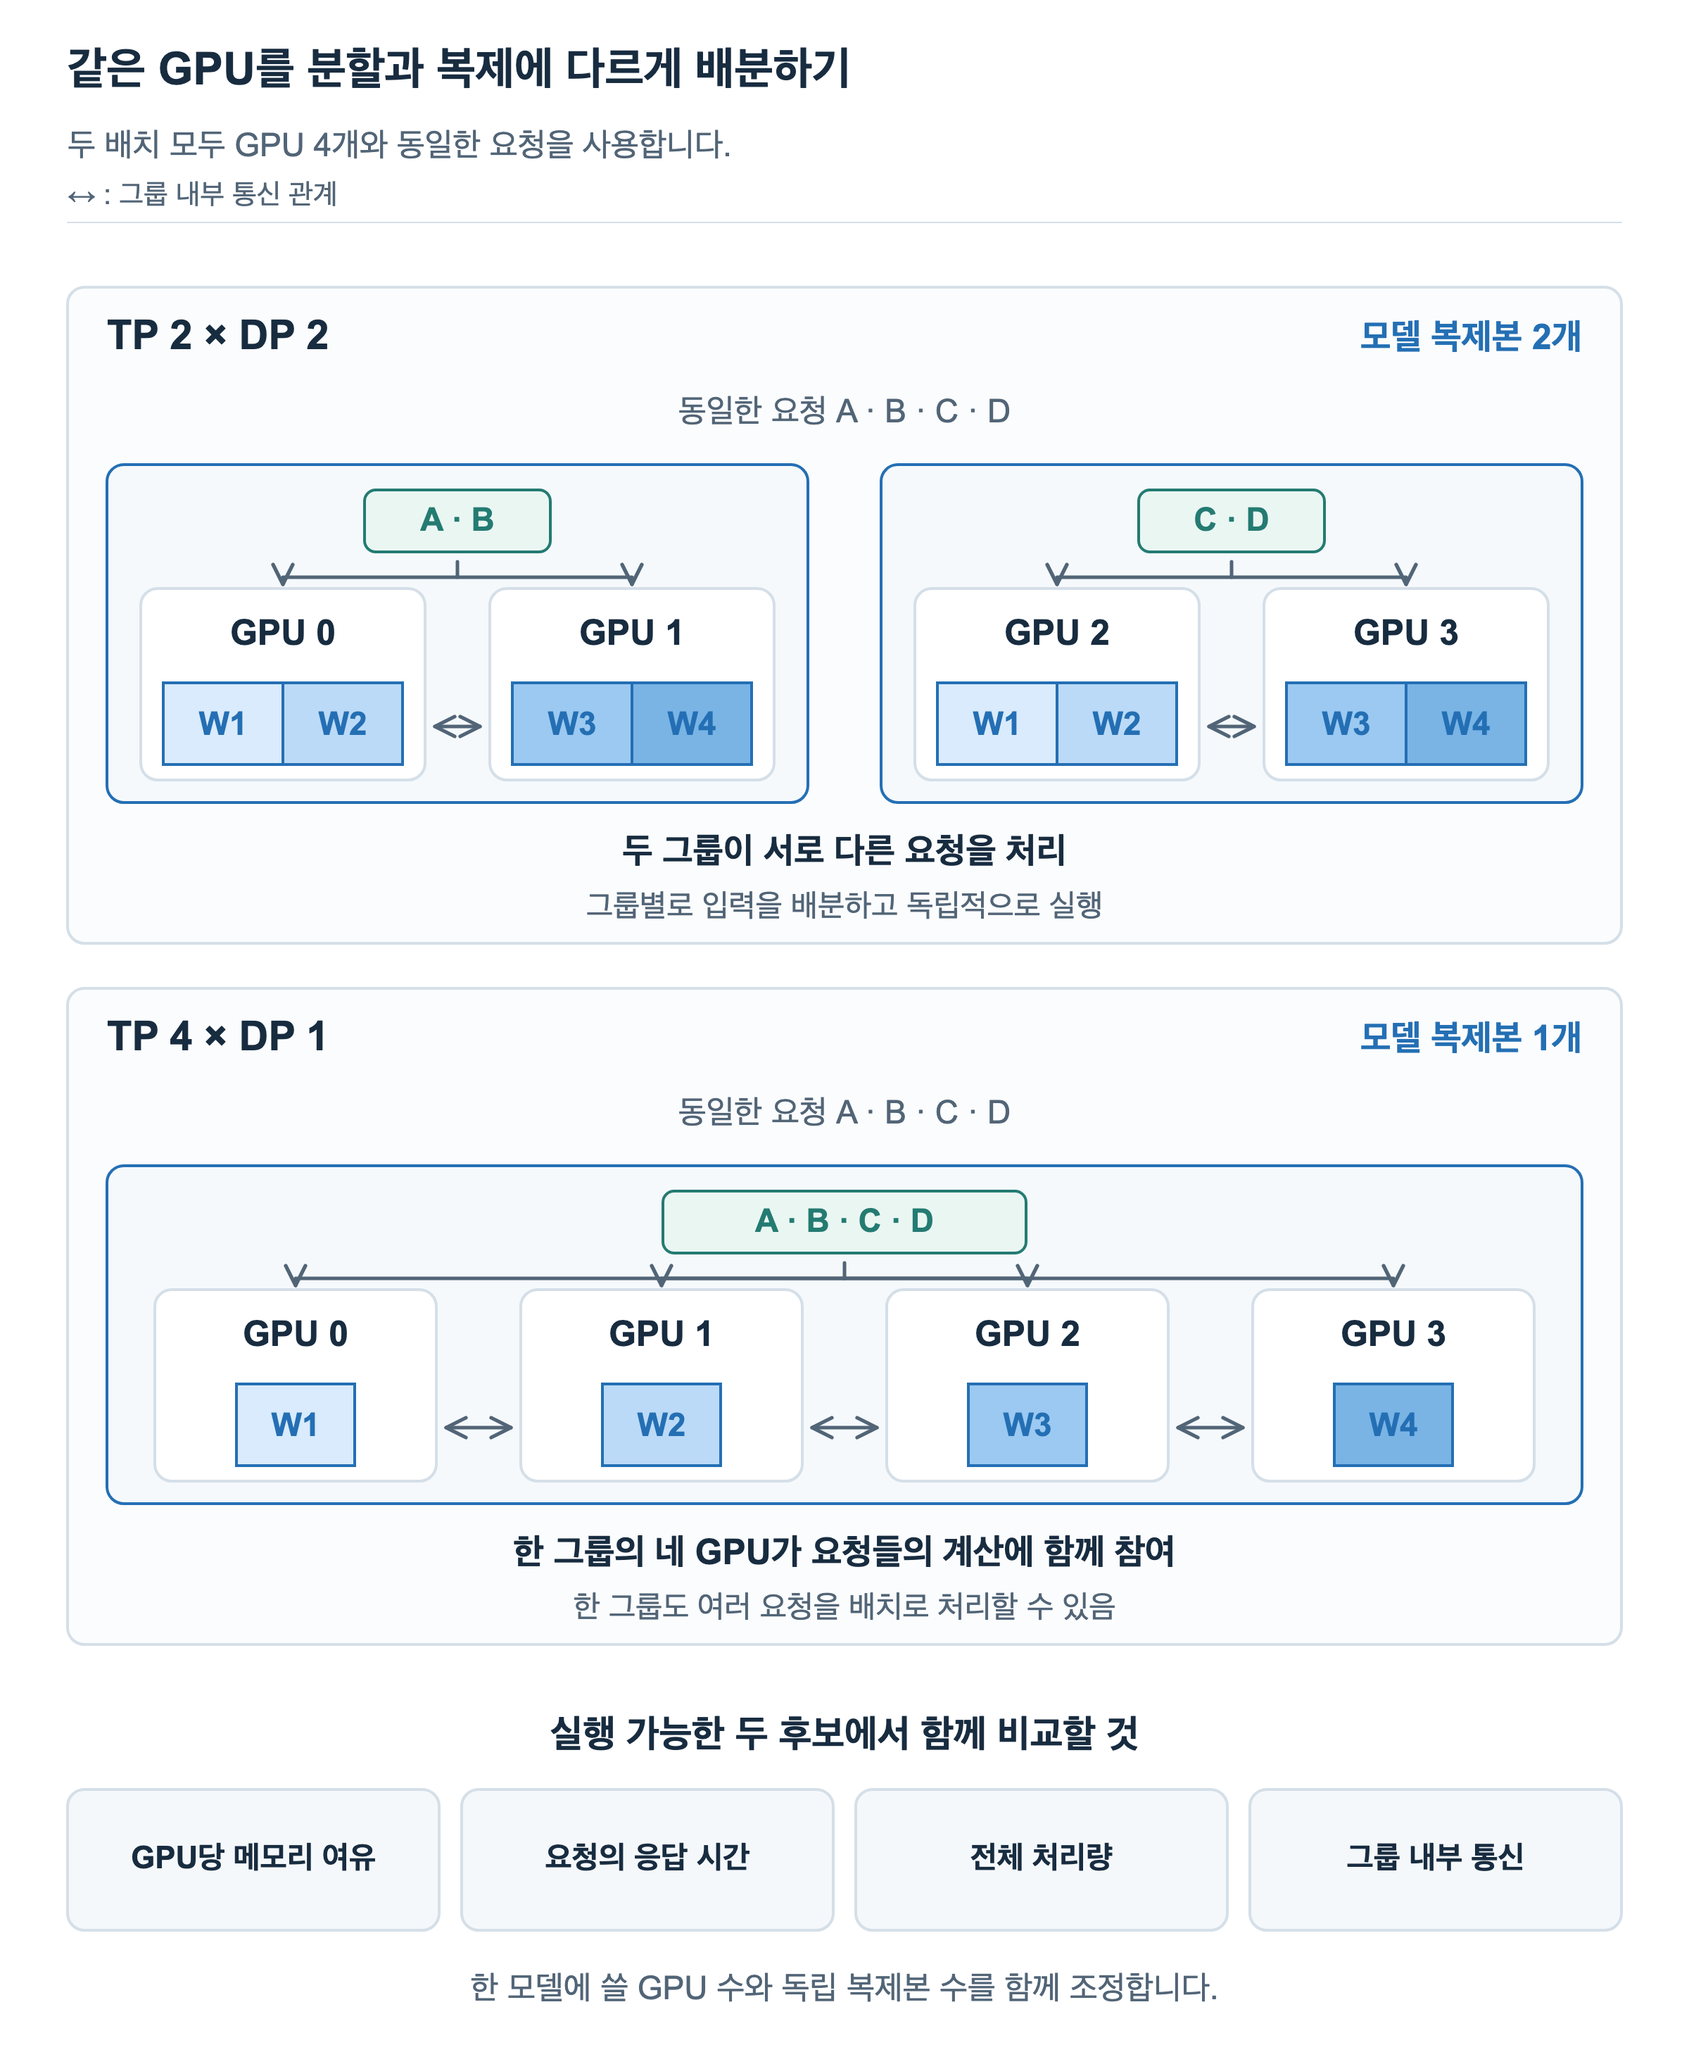
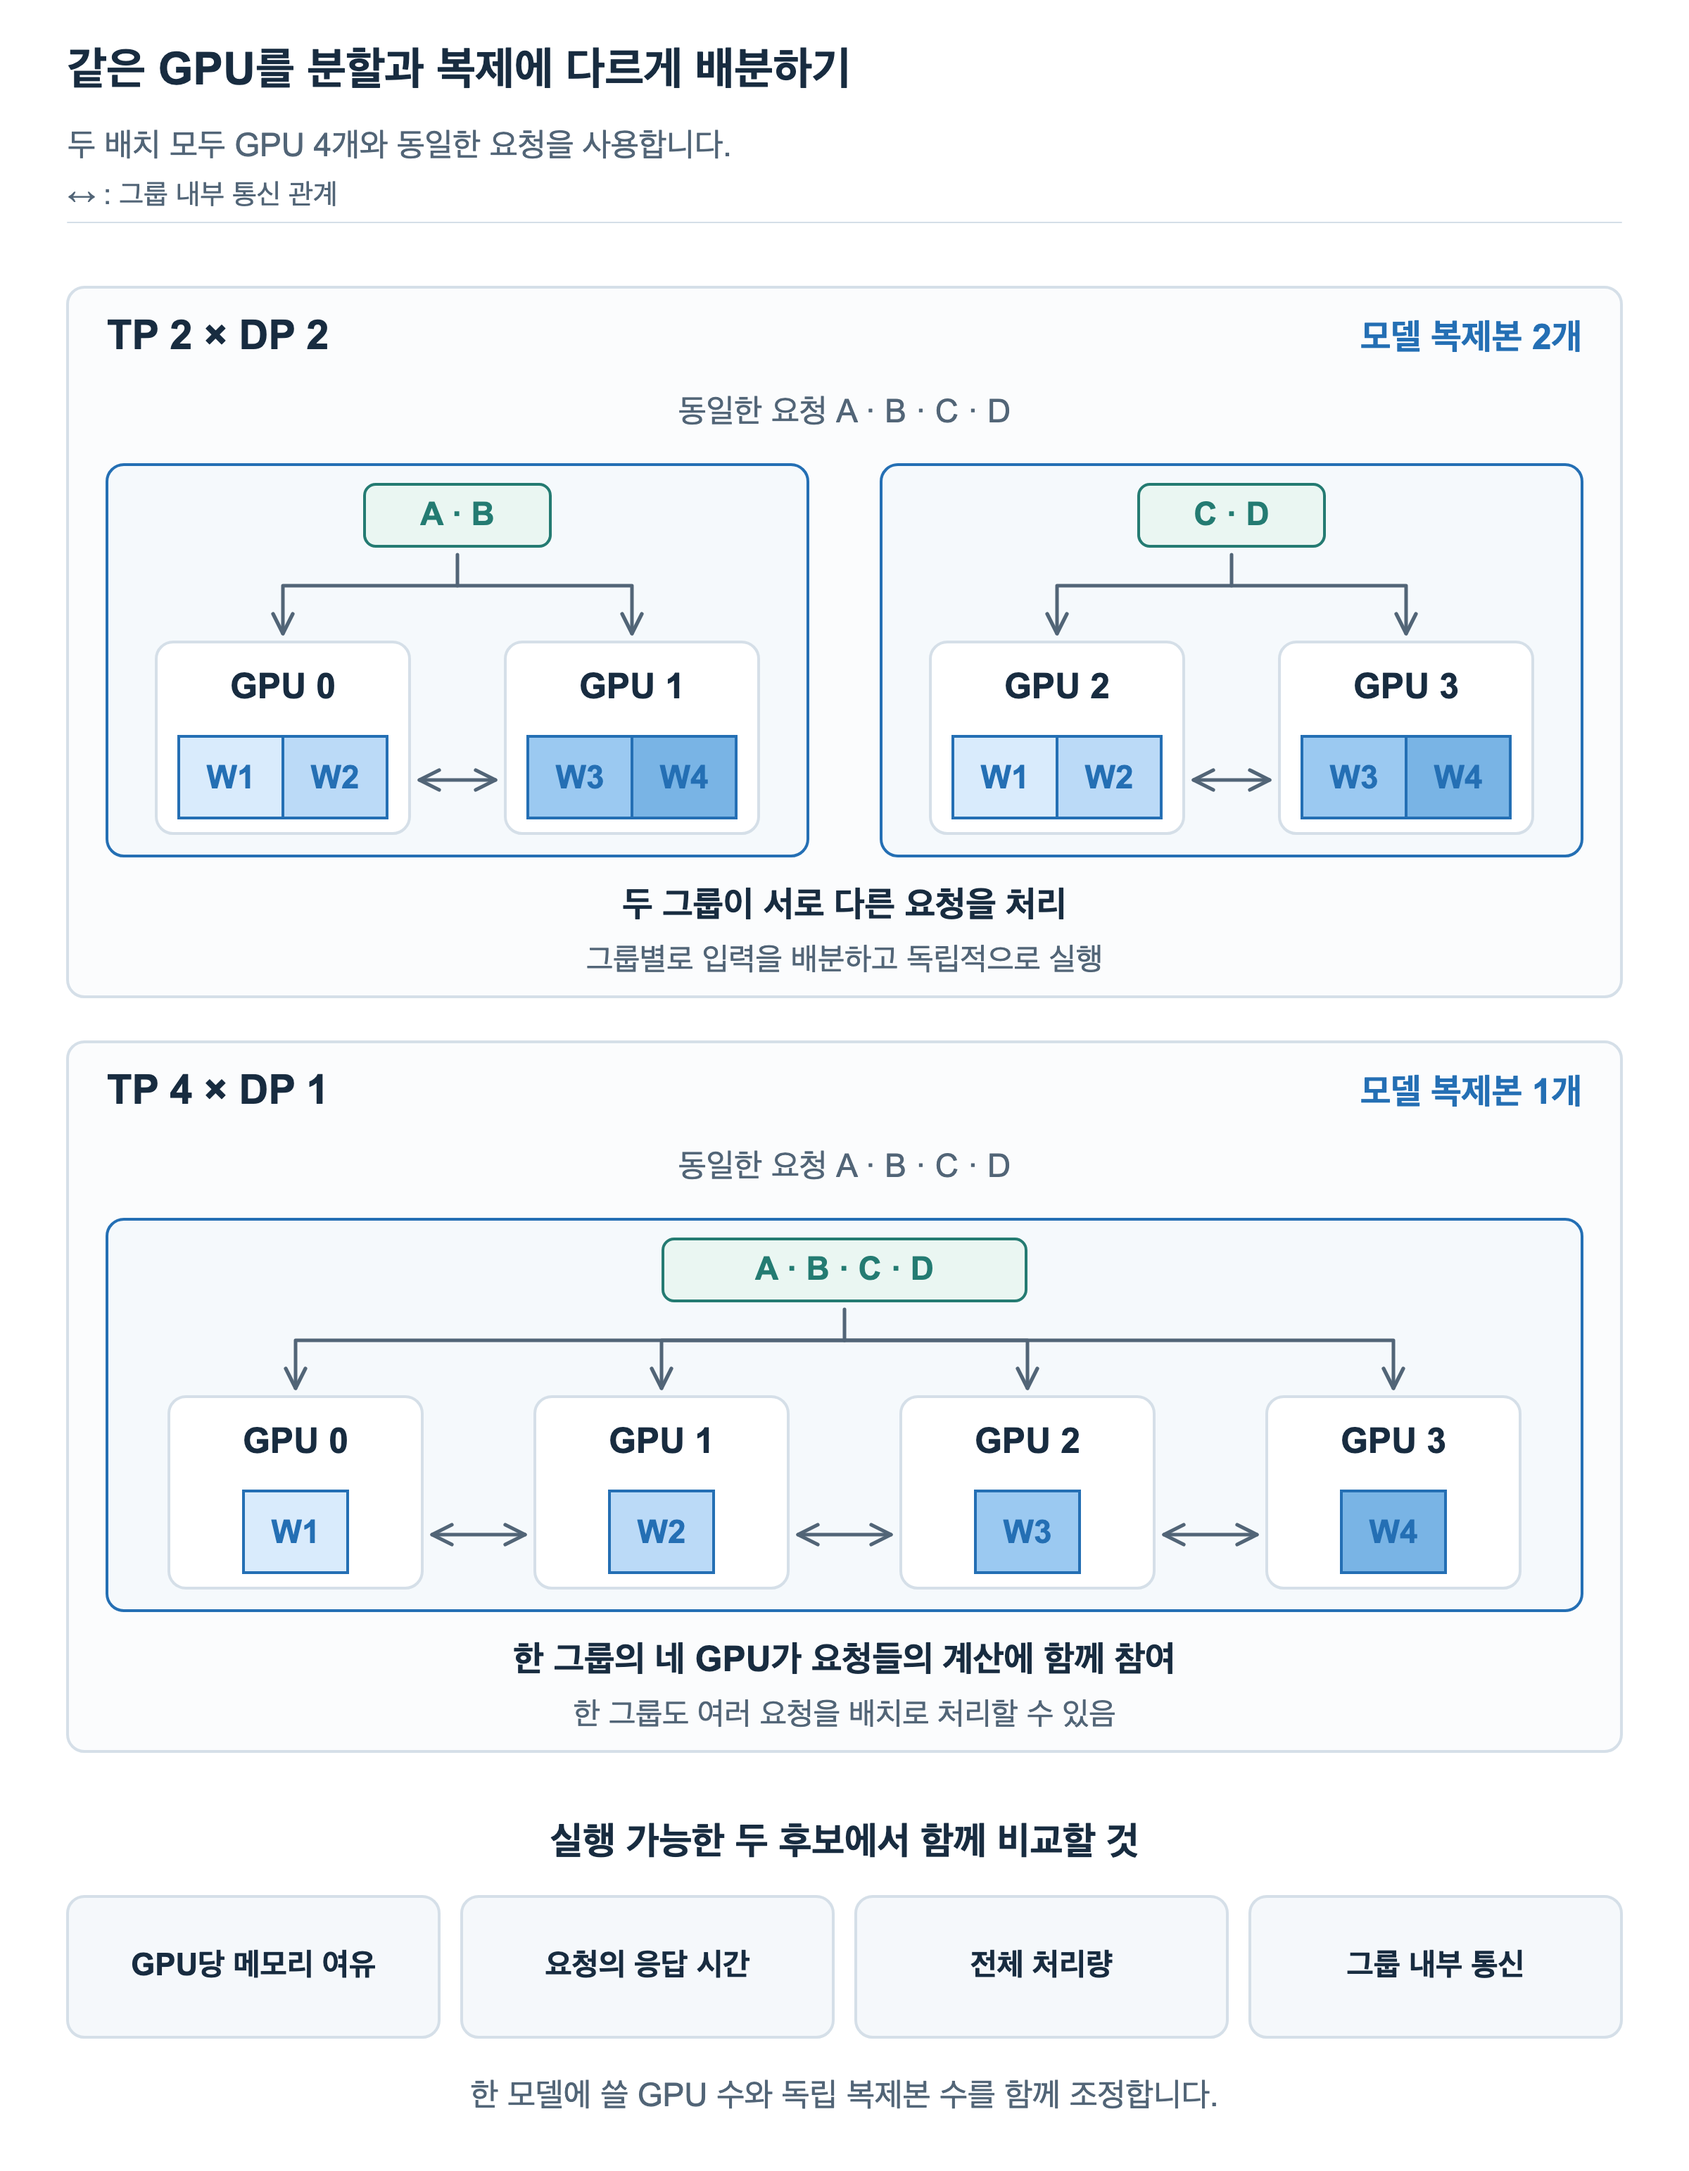
Give parallelism comparison arrows room to read

diff --git a/scripts/generate-selection-figures.py b/scripts/generate-selection-figures.py
@@ -80,32 +80,32 @@ for LANG in ['ko','en']:
  # 3. The same GPU and request budget; no invented runtime or throughput.
  b=text(48,145,('↔ : 그룹 내부 통신 관계','↔ : communication within a group'),20,MUTED)
  for row,(tp,dp) in enumerate([(2,2),(4,1)]):
-  y=204+row*498;b+=rect(48,y,1104,466,'#fbfcfd')
+  y=204+row*536;b+=rect(48,y,1104,504,'#fbfcfd')
   b+=text(76,y+44,f'TP {tp} × DP {dp}',29,bold=True)
   b+=text(1124,y+44,('모델 복제본 2개' if dp==2 else '모델 복제본 1개','Two model replicas' if dp==2 else 'One model replica'),25,BLUE,True,'end')
   b+=text(600,y+96,('동일한 요청 A · B · C · D','The same requests A · B · C · D'),23,MUTED,anchor='middle')
   if dp==2:
    for group,x in enumerate([76,626]):
-    cx=x+249;b+=rect(x,y+126,498,240,'#f5f9fc',BLUE)
-    b+=chip(cx,y+144,'A · B' if group==0 else 'C · D',132)
-    for local,gx in enumerate([x+24,x+272]):
-     b+=gpu(gx,y+214,group*2+local,[local*2,local*2+1],202,136)
-    b+=arrow([(cx,y+195),(cx,y+206),(x+125,y+206),(x+125,y+211)])+arrow([(cx,y+206),(x+373,y+206),(x+373,y+211)])
-    b+=arrow([(x+233,y+312),(x+265,y+312)],double=True)
+    cx=x+249;b+=rect(x,y+126,498,278,'#f5f9fc',BLUE)
+    b+=chip(cx,y+140,'A · B' if group==0 else 'C · D',132)
+    for local,gx in enumerate([x+35,x+283]):
+     b+=gpu(gx,y+252,group*2+local,[local*2,local*2+1],180,136)
+    b+=arrow([(cx,y+190),(cx,y+212),(x+125,y+212),(x+125,y+246)])+arrow([(cx,y+212),(x+373,y+212),(x+373,y+246)])
+    b+=arrow([(x+222,y+350),(x+276,y+350)],double=True)
   else:
-   b+=rect(76,y+126,1048,240,'#f5f9fc',BLUE)+chip(600,y+144,'A · B · C · D',258)
+   b+=rect(76,y+126,1048,278,'#f5f9fc',BLUE)+chip(600,y+140,'A · B · C · D',258)
    centers=[210,470,730,990]
-   b+=arrow([(600,y+195),(600,y+206),(210,y+206),(210,y+211)])
-   for cx in centers[1:]:b+=arrow([(600,y+206),(cx,y+206),(cx,y+211)])
-   for g,cx in enumerate(centers):b+=gpu(cx-100,y+214,g,[g],200,136)
-   for cx in centers[:-1]:b+=arrow([(cx+107,y+312),(cx+153,y+312)],double=True)
-  b+=text(600,y+409,('두 그룹이 서로 다른 요청을 처리' if dp==2 else '한 그룹의 네 GPU가 요청들의 계산에 함께 참여','Two groups handle different requests' if dp==2 else 'All four GPUs cooperate on the requests in one group'),25,bold=True,anchor='middle')
-  b+=text(600,y+447,('그룹별로 입력을 배분하고 독립적으로 실행' if dp==2 else '한 그룹도 여러 요청을 배치로 처리할 수 있음','Requests are assigned to independently running groups' if dp==2 else 'One group can also batch multiple requests'),22,MUTED,anchor='middle')
- b+=text(600,1241,('실행 가능한 두 후보에서 함께 비교할 것','Compare both feasible candidates'),27,bold=True,anchor='middle')
+   b+=arrow([(600,y+190),(600,y+212),(210,y+212),(210,y+246)])
+   for cx in centers[1:]:b+=arrow([(600,y+212),(cx,y+212),(cx,y+246)])
+   for g,cx in enumerate(centers):b+=gpu(cx-90,y+252,g,[g],180,136)
+   for cx in centers[:-1]:b+=arrow([(cx+97,y+350),(cx+163,y+350)],double=True)
+  b+=text(600,y+447,('두 그룹이 서로 다른 요청을 처리' if dp==2 else '한 그룹의 네 GPU가 요청들의 계산에 함께 참여','Two groups handle different requests' if dp==2 else 'All four GPUs cooperate on the requests in one group'),25,bold=True,anchor='middle')
+  b+=text(600,y+485,('그룹별로 입력을 배분하고 독립적으로 실행' if dp==2 else '한 그룹도 여러 요청을 배치로 처리할 수 있음','Requests are assigned to independently running groups' if dp==2 else 'One group can also batch multiple requests'),22,MUTED,anchor='middle')
+ b+=text(600,1317,('실행 가능한 두 후보에서 함께 비교할 것','Compare both feasible candidates'),27,bold=True,anchor='middle')
  for i,label in enumerate([('GPU당 메모리 여유','Memory headroom'),('요청의 응답 시간','Request latency'),('전체 처리량','Total throughput'),('그룹 내부 통신','Within-group communication')]):
-  x=48+i*280;b+=rect(x,1271,264,100,'#f5f8fb');lines=tr(label).replace('Within-group communication','Within-group\ncommunication');b+=text(x+132,1309 if '\n' in lines else 1327,lines,22,bold=True,anchor='middle')
- b+=text(600,1420,('한 모델에 쓸 GPU 수와 독립 복제본 수를 함께 조정합니다.','Adjust GPUs per model together with the number of independent replicas.'),23,MUTED,anchor='middle')
- save('03-balance-shards-and-replicas',('같은 GPU를 분할과 복제에 다르게 배분하기','Balance partitioning and replication on the same GPUs'),('두 배치 모두 GPU 4개와 동일한 요청을 사용합니다.','Both arrangements use four GPUs and the same requests.'),b,1466,('같은네GPU를 TP2×DP2의 두모델그룹 또는 TP4×DP1의 한모델그룹으로 구성한다. 첫배치는 A/B와C/D를 별도그룹에, 두번째는 A/B/C/D를 한그룹에 보낸다. 그룹하나도 여러요청을 배칭할수있으며 메모리여유,응답시간,처리량,내부통신을 비교한다.','Four GPUs form either two TP2 replicas or one TP4 replica. The first assigns A/B and C/D to separate groups; the second sends A/B/C/D to one group, which can batch requests. Compare memory headroom, latency, throughput, and within-group communication.'))
+  x=48+i*280;b+=rect(x,1347,264,100,'#f5f8fb');lines=tr(label).replace('Within-group communication','Within-group\ncommunication');b+=text(x+132,1385 if '\n' in lines else 1403,lines,22,bold=True,anchor='middle')
+ b+=text(600,1496,('한 모델에 쓸 GPU 수와 독립 복제본 수를 함께 조정합니다.','Adjust GPUs per model together with the number of independent replicas.'),23,MUTED,anchor='middle')
+ save('03-balance-shards-and-replicas',('같은 GPU를 분할과 복제에 다르게 배분하기','Balance partitioning and replication on the same GPUs'),('두 배치 모두 GPU 4개와 동일한 요청을 사용합니다.','Both arrangements use four GPUs and the same requests.'),b,1542,('같은네GPU를 TP2×DP2의 두모델그룹 또는 TP4×DP1의 한모델그룹으로 구성한다. 첫배치는 A/B와C/D를 별도그룹에, 두번째는 A/B/C/D를 한그룹에 보낸다. 그룹하나도 여러요청을 배칭할수있으며 메모리여유,응답시간,처리량,내부통신을 비교한다.','Four GPUs form either two TP2 replicas or one TP4 replica. The first assigns A/B and C/D to separate groups; the second sends A/B/C/D to one group, which can batch requests. Compare memory headroom, latency, throughput, and within-group communication.'))
 assert len(MANIFEST)==6
 (ROOT/'scripts/selection-figures.json').write_text(json.dumps(MANIFEST,ensure_ascii=False,indent=2)+'\n')
 print('Generated six bilingual selection diagrams; capacity examples verified.')
